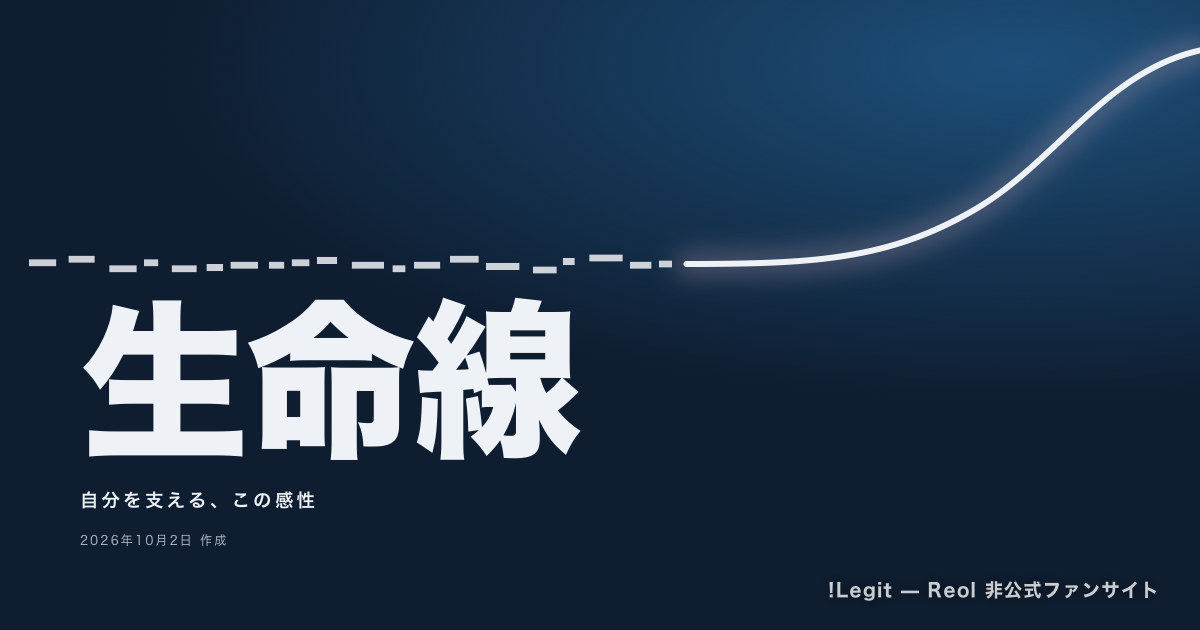
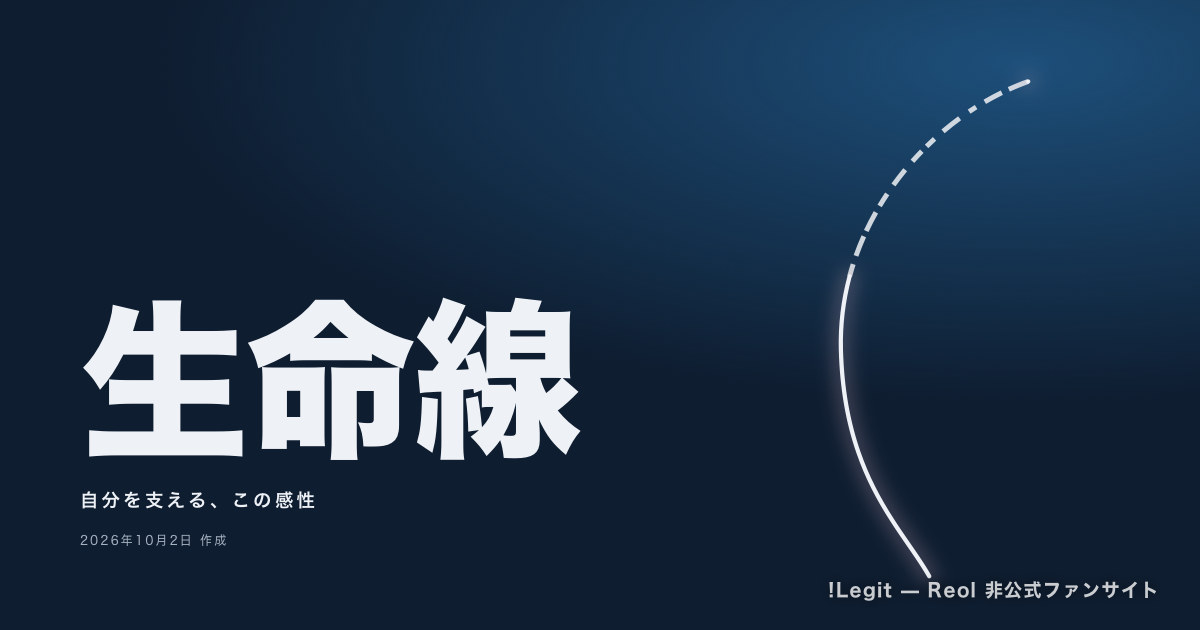
fix: 生命線の表紙と傷の図を手相の生命線の形に。線の上と下の図を外す
Claude-Session: https://claude.ai/code/session_019aiWLexjpzsr9jmmoxMXpr

diff --git a/src/components/songArticles/designs/reol-song-014/SeimeisenDesign.tsx b/src/components/songArticles/designs/reol-song-014/SeimeisenDesign.tsx
@@ -3,11 +3,10 @@
  *
  * - 一本の線の記事。細かく区切られた断片(言葉と音)が、サビで一本の線に開ける(本文 段落1・5〜10)。
  * - 地は深い青、文字は白。色は『-nil-／極彩色』の16曲の輪で「生命線」に当てた深い青と淡い藤色だけ。
- * - 表紙: 短い断片が詰まって並び、途中から一本の線になって大きく開ける。題名はゴシックで太く。
+ * - 表紙: 手相の生命線(左の手のひら)。前半は短い断片が詰まって並び、後半は一本の線になって手首へ伸びる。題名はゴシックで太く。
  * - 本文の左に、記事を貫く一本の線。見出しはその線の上の節目。
  * - 段落10の後: 四角い断片(助詞の少ない、漢字の多い短い言葉)が詰まって並び、サビで一本の線になる。
- * - 段落16の後: 一本の線の上と下に「悩みの種」と「自分を好きだと思える理由」(どちらも本文の地の文)。
- * - 段落25の後: 手のひらの線のような一本の曲線に、細かな傷の刻みと淡い色が同じ場所に重なる(文字は置かない)。
+ * - 段落25の後: 表紙と同じ生命線に、細かな傷の刻みと淡い色が同じ場所に重なる(文字は置かない)。
  * - 段落29(歌詞ではない文)を大きく。
  * - 歌詞は本文の外に出さない。ジャケット・映像は複製しない。
  *
@@ -27,7 +26,6 @@ const INTRO = 0;
 const S_CHOP = 4; // 見出し「細かく刻まれる言葉と、サビの開放感」
 const CHOP_FIG = 11; // 段落10の後: 断片から一本の線へ
 const S_SIDES = 12; // 見出し「嫌いなところも、好きなところも」
-const SIDES_FIG = 17; // 段落16の後: 一本の線の上と下
 const S_LINE = 23; // 見出し「感性へのプライドが、生命線になる」
 const LINE_FIG = 26; // 段落25の後: 傷と色が同じ線に重なる
 const PULL = 29; // 要の一文(歌詞ではない文)
@@ -72,35 +70,40 @@ const seeded = (seed: number) => {
   };
 };
 
-// 表紙の断片: 左から詰まって並ぶ短い線。間隔も長さも不揃い
+/**
+ * 手相の生命線(左の手のひらを見た向き): 親指と人差し指の間(右上)から、親指の付け根を囲むように
+ * 斜め左下へ弧を描き、手首(下)へ向かう。表紙と段落25の後の図で同じ形を使う
+ */
+const LIFE_LINE = "M470 70 C 330 120, 200 270, 205 450 S 290 700, 330 770";
+// 表紙: 線の前半は不揃いな断片(細かく区切られた言葉と音)、後半は一本の線(サビで開ける)。値は線の長さを1とした割合
+const SPLIT = 0.46;
 const COVER_BITS = (() => {
   const rnd = seeded(14);
-  const bits: { x: number; w: number; y: number }[] = [];
-  let x = 24;
-  while (x < 560) {
-    const w = 6 + Math.round(rnd() * 22);
-    bits.push({ x, w, y: Math.round((rnd() - 0.5) * 10) });
-    x += w + 5 + Math.round(rnd() * 7);
+  const bits: { from: number; len: number }[] = [];
+  let t = 0;
+  while (t < SPLIT - 0.02) {
+    const len = Math.min(0.012 + rnd() * 0.03, SPLIT - t);
+    bits.push({ from: t, len });
+    t += len + 0.008 + rnd() * 0.012;
   }
   return bits;
 })();
 
-/** 表紙: 断片が詰まって並び、途中から一本の線になって大きく開ける(題名の上の空きに置く) */
-const COVER_LINE = "M572 200 C 680 200, 740 196, 810 156 S 920 40, 1000 22";
+/** 表紙: 手相の生命線。前半は断片が刻むように並び、後半は一本の線になって手首へ伸びる */
 const CoverArt: React.FC = () => (
-  <svg className="a014-cover__art" viewBox="0 0 1000 260" aria-hidden="true">
+  <svg className="a014-cover__art" viewBox="0 0 600 820" aria-hidden="true">
     <defs>
-      <filter id="a014-cover-blur" x="-10%" y="-60%" width="120%" height="220%">
-        <feGaussianBlur stdDeviation="10" />
+      <filter id="a014-cover-blur" x="-30%" y="-10%" width="160%" height="120%">
+        <feGaussianBlur stdDeviation="12" />
       </filter>
     </defs>
     <g className="a014-cover__bits">
       {COVER_BITS.map((b, i) => (
-        <rect key={i} x={b.x} y={197 + b.y} width={b.w} height="6" style={{ animationDelay: `${0.2 + i * 0.028}s` }} />
+        <path key={i} d={LIFE_LINE} pathLength={1} strokeDasharray={`0 ${b.from} ${b.len} 2`} style={{ animationDelay: `${0.2 + i * 0.05}s` }} />
       ))}
     </g>
-    <path className="a014-cover__glow" d={COVER_LINE} pathLength={1} filter="url(#a014-cover-blur)" />
-    <path className="a014-cover__open" d={COVER_LINE} pathLength={1} />
+    <path className="a014-cover__glow" d={LIFE_LINE} pathLength={1} strokeDasharray={`0 ${SPLIT} ${1 - SPLIT} 2`} filter="url(#a014-cover-blur)" />
+    <path className="a014-cover__open" d={LIFE_LINE} pathLength={1} strokeDasharray={`0 ${SPLIT} ${1 - SPLIT} 2`} />
   </svg>
 );
 
@@ -141,25 +144,8 @@ const Chop: React.FC = () => {
   );
 };
 
-/** 段落16の後: 一本の線の上と下。どちらも同じ線(感性)の側 */
-const Sides: React.FC = () => {
-  const { ref, className } = useRevealOnce<HTMLElement>(0.5);
-  const d = "M0 70 C 80 52, 140 88, 220 70 S 360 52, 440 70 S 560 88, 600 70";
-  return (
-    <figure ref={ref} className={`a014-sides${className}`} aria-label="同じ一本の線の上に「悩みの種」、下に「自分を好きだと思える理由」">
-      <p className="a014-sides__label is-up">悩みの種</p>
-      <svg viewBox="0 0 600 140" preserveAspectRatio="none" aria-hidden="true">
-        <path d={`${d} L600 0 L0 0 Z`} className="a014-sides__up" />
-        <path d={`${d} L600 140 L0 140 Z`} className="a014-sides__down" />
-        <path d={d} className="a014-sides__line" pathLength={1} vectorEffect="non-scaling-stroke" />
-      </svg>
-      <p className="a014-sides__label is-down">自分を好きだと思える理由</p>
-    </figure>
-  );
-};
-
 /** 段落25の後: 手のひらの線のような一本の曲線。細かな刻みと淡い色が、同じ線の同じ場所に重なる */
-const PALM = "M60 40 C 70 150, 120 250, 250 300 S 470 330, 560 300";
+const PALM = LIFE_LINE;
 const NICKS = [0.08, 0.15, 0.21, 0.3, 0.37, 0.45, 0.52, 0.6, 0.66, 0.74, 0.81, 0.9];
 const Palm: React.FC = () => {
   const { ref, className } = useRevealOnce<HTMLElement>(0.45);
@@ -180,7 +166,7 @@ const Palm: React.FC = () => {
   }, []);
   return (
     <figure ref={ref} className={`a014-palm${className}`} aria-label="傷も、大切に思う気持ちも、同じ一本の線の上にある">
-      <svg viewBox="0 0 620 360" aria-hidden="true">
+      <svg viewBox="0 0 600 820" aria-hidden="true">
         <defs>
           <filter id="a014-blur" x="-20%" y="-20%" width="140%" height="140%">
             <feGaussianBlur stdDeviation="9" />
@@ -260,11 +246,7 @@ const SeimeisenDesign: SongArticleDesign = (ctx) => {
               {body(CHOP_FIG, S_SIDES)}
             </section>
 
-            <section className="a014-section">
-              {body(S_SIDES, SIDES_FIG)}
-              <Sides />
-              {body(SIDES_FIG, S_LINE)}
-            </section>
+            <section className="a014-section">{body(S_SIDES, S_LINE)}</section>
 
             <section className="a014-section a014-section--last">
               {body(S_LINE, LINE_FIG)}

diff --git a/src/components/songArticles/designs/reol-song-014/seimeisen.css b/src/components/songArticles/designs/reol-song-014/seimeisen.css
@@ -43,19 +43,22 @@
 .a014-cover__art {
   position: absolute;
   z-index: -1;
-  top: clamp(72px, 16%, 150px);
-  left: 0;
-  width: 100%;
-  height: auto;
+  top: 5%;
+  right: max(2%, calc((100% - 1040px) / 2));
+  height: 92%;
+  width: auto;
+  aspect-ratio: 600 / 820;
 }
-.a014-cover__bits rect {
-  fill: var(--ink);
+.a014-cover__bits path {
+  fill: none;
+  stroke: var(--ink);
+  stroke-width: 7;
   opacity: 0.85;
 }
 .a014-cover__open {
   fill: none;
   stroke: var(--ink);
-  stroke-width: 5;
+  stroke-width: 6;
   stroke-linecap: round;
 }
 .a014-cover__glow {
@@ -67,13 +70,21 @@
 }
 @media (prefers-reduced-motion: no-preference) {
   /* 断片が刻むように次々と現れ、そのあと一本の線が伸びて開ける */
-  .a014-cover__bits rect {
+  .a014-cover__bits path {
     animation: a014-bit 0.15s ease-out both;
   }
   .a014-cover__open,
   .a014-cover__glow {
-    stroke-dasharray: 1;
-    animation: a014-draw 1.4s cubic-bezier(0.3, 0.6, 0.2, 1) 1.15s both;
+    animation: a014-open 1.4s cubic-bezier(0.3, 0.6, 0.2, 1) 1.4s both;
+  }
+}
+/* 線の後半(断片の続き)だけを、断片の終わりから手首へ伸ばす */
+@keyframes a014-open {
+  from {
+    stroke-dasharray: 0 0.46 0 2;
+  }
+  to {
+    stroke-dasharray: 0 0.46 0.54 2;
   }
 }
 @keyframes a014-bit {
@@ -334,58 +345,6 @@
   animation: a014-draw 1.1s cubic-bezier(0.3, 0.6, 0.2, 1) 1.5s both;
 }
 
-/* ---------- 一本の線の上と下 ---------- */
-.a014-sides {
-  margin: 2.4em 0;
-}
-.a014-sides svg {
-  display: block;
-  width: 100%;
-  height: clamp(90px, 16vw, 130px);
-}
-.a014-sides__up {
-  fill: rgb(200 166 184 / 0.16);
-}
-.a014-sides__down {
-  fill: rgb(29 79 122 / 0.55);
-}
-.a014-sides__line {
-  fill: none;
-  stroke: var(--ink);
-  stroke-width: 3;
-}
-.a014-sides__label {
-  margin: 0;
-  font-size: 13px;
-  font-weight: 700;
-  letter-spacing: 0.1em;
-}
-.a014-sides__label.is-up {
-  margin-bottom: 10px;
-  color: var(--mauve);
-}
-.a014-sides__label.is-down {
-  margin-top: 10px;
-  text-align: right;
-  color: var(--link);
-}
-.a014-sides.is-armed .a014-sides__line {
-  stroke-dasharray: 1;
-  stroke-dashoffset: 1;
-}
-.a014-sides.is-armed .a014-sides__up,
-.a014-sides.is-armed .a014-sides__down,
-.a014-sides.is-armed .a014-sides__label {
-  opacity: 0;
-}
-.a014-sides.is-visible .a014-sides__line {
-  animation: a014-draw 1.2s cubic-bezier(0.3, 0.6, 0.2, 1) both;
-}
-.a014-sides.is-visible .a014-sides__up,
-.a014-sides.is-visible .a014-sides__down,
-.a014-sides.is-visible .a014-sides__label {
-  animation: a014-fade 0.8s ease-out 0.9s both;
-}
 @keyframes a014-fade {
   from {
     opacity: 0;
@@ -402,7 +361,7 @@
 .a014-palm svg {
   display: block;
   width: 100%;
-  max-width: 560px;
+  max-width: 300px;
   height: auto;
   margin: 0 auto;
 }
@@ -513,9 +472,9 @@
   }
   /* 狭い画面では表紙の線を大きく、左右は画面の外へはみ出させる */
   .a014-cover__art {
-    top: clamp(96px, 22%, 180px);
-    left: -25%;
-    width: 150%;
+    top: 7%;
+    right: -12%;
+    height: 78%;
   }
 }
 @media print {

diff --git a/scripts/articles/capture-article-og.ts b/scripts/articles/capture-article-og.ts
@@ -92,10 +92,6 @@ const PER_ARTICLE_CSS: Record<string, string> = {
   "reol-song-012": `
     .og-brand { color: #646a72 !important; text-shadow: none !important; }
   `,
-  // 生命線: 横長に切ると表紙の線が題名に重なるので、線を上の空きへ寄せる
-  "reol-song-014": `
-    .a014-cover__art { top: 24px !important; }
-  `,
   "reol-song-057": `
     .og-brand { color: #6b5258 !important; text-shadow: none !important; }
     .a057-cover__body { align-items: center !important; padding: 0 0 56px !important; }

diff --git a/plan/50-seimeisen-article-design.md b/plan/50-seimeisen-article-design.md
@@ -35,7 +35,7 @@
 | 表紙: 短い断片が詰まって並び(刻む)、途中から一本の線になって大きく開ける(サビ)。題名はゴシックの極太 | 意味1・2(ロック、刻みから開放へ) |
 | 本文の左に記事を貫く一本の線。見出しはその線の上の節目(藤色の四角)。結びで線の端に小さな輪 | 意味6(生命線) |
 | 段落10の後: 四角い断片(漢字の多い短い言葉)が詰まって並び、境目からサビの一本の線へ。下に「細かく区切られた言葉と音」「サビで、一気に開ける」 | 意味2。言葉は本文の地の文から |
-| 段落16の後: 一本の波線の上に「悩みの種」、下に「自分を好きだと思える理由」(どちらも段落16の地の文) | 意味3 |
+| (段落16の後の「線の上と下」の図は5章で外した) | — |
 | 段落25の後: 手のひらの線のような一本の曲線に、細かな傷の刻みと藤色のにじみが同じ場所に重なる。文字は置かない | 意味5。段落24の歌詞の二つの言葉は図の文字にしない |
 | 段落29(歌詞ではない文)を大きく | 意味4 |
 | 奥付: 作詞・作曲(サイトのデータ)、初出、ライヴの公演数、参考に歌ネット | 本文の歌ネットのリンク3つを一度にまとめる(3章) |
@@ -60,3 +60,11 @@
 - 見本の途中で直したこと: 表紙の線が題名に隠れていたので題名の上の空きへ移した。WebKit で CSS の blur をかけた線が灰色の塊になったので SVG のぼかしに。断片の出現を steps(1) の短いアニメーションにしたら途中で止まる断片があったので、通常の短いフェードに。暗い地で本文が太って見えたので、文字のなめらかさを抑えた(antialiased)。スマートフォン幅で要の一文の大きさが本文の指定に負けていたのを直した。
 - OGP: 表紙を撮影。横長に切ると表紙の線が題名に重なるので、`capture-article-og.ts` の記事ごとの調整で線を上へ。
 - 確認: 開発サーバーの Chromium・WebKit、360・390・1280px で表紙と各図を撮影。横はみ出しなし、noindex あり、ページのエラーなし、`utm_` なし、歌ネットへのリンクは1つ。
+
+## 5. 表紙と図を手相の生命線に・「線の上と下」の図を外す(2026-10-23)
+
+- ユーザー「生命線って手相以外に何かある？ 手相だとすると左が右から斜め下に放物線の様な曲線になるイメージじゃない？ 表紙のはどういうイメージ？」「傷だらけの生命線の図も実際の生命線のベクトルは上には向かないので気になる」「悩みの種と自分を好きだと思える理由の図がいまいち意味がわからない」。
+- 見本 v1 の表紙は、断片(刻む)が一本の線になって右上へ開ける線で、手相の形ではなかった。傷の図も最後が右上へ向かっていた。
+- 直し: 表紙と傷の図を、同じ手相の生命線(左の手のひらを見た向き: 親指と人差し指の間の右上から、親指の付け根を囲むように斜め左下へ弧を描き、手首へ下りる)にした(`LIFE_LINE`)。表紙は線の前半を不揃いな断片に、後半を一本の線にして、刻む → 開ける(意味2)を同じ線の上で見せる。
+- 「悩みの種」「自分を好きだと思える理由」の線の上と下の図は外した(意味が伝わらないため)。
+- OGP 撮り直し。横長でも線が題名に重ならないので、`capture-article-og.ts` の記事ごとの調整は外した。
